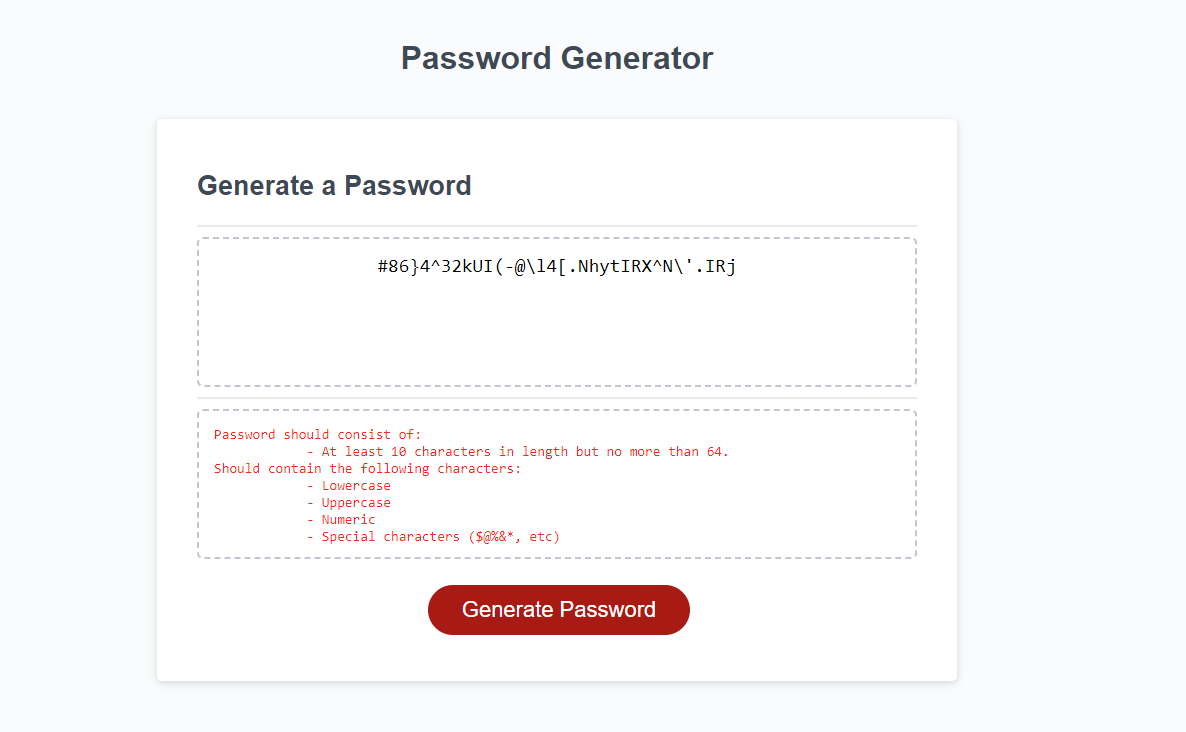
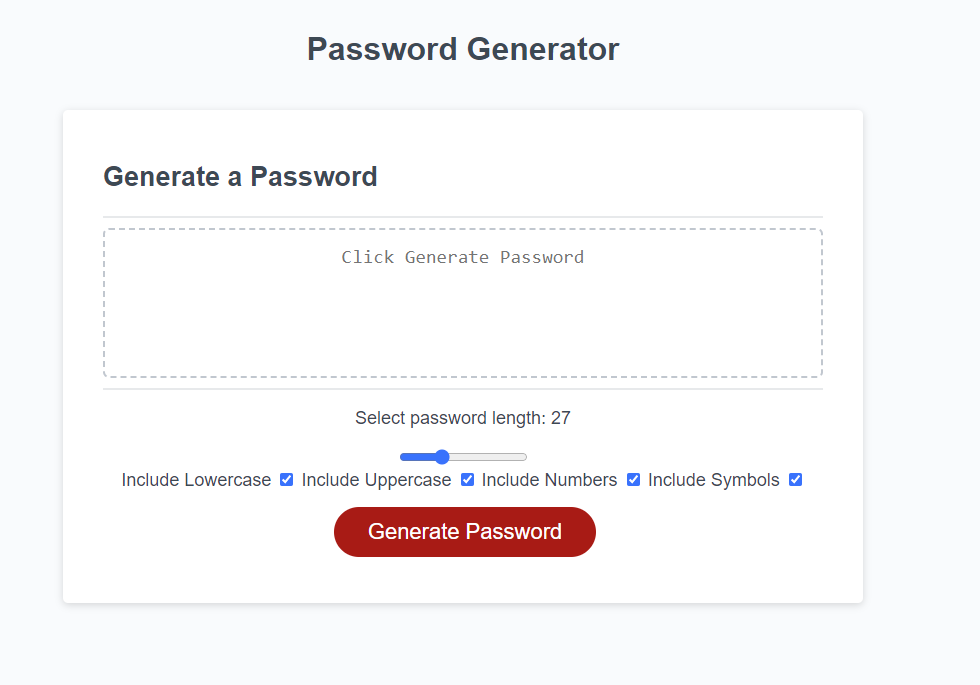
Updating readMe to reflect project changes

diff --git a/README.md b/README.md
@@ -2,39 +2,39 @@
 
 ## Description
 
-This project was intended to make a random password generator that produces a password that meets set parameters. As well as this the application needed to adapt to the users viewport via media queries in css. 
+This project was intended to make a random password generator that produces a password that meets parameters set by the user. As well as this the application needed to adapt to the users viewport via media queries in css. 
 
-This project was intended to help me practice the creation of functions, methods and working between html, css and javascript, - as none of my projects until now have combined all three to such an extent. This password generator tries to produce a password that is secure as possible by making sure the password is made at a random length between 10 and 64 characters, as well as including a random number of upper case, lower case, numeric and special characters. If the generated password does not match the required length and complexity, the browser returns an alert and prompts the user to hit generate button again.
+This project was intended to help me practice the creation of functions, methods and working between html, css and javascript, - as none of my projects until now have combined all three to such an extent. This password generator allows the user to configure the length and contents of the random password generated, with the use of a slider and check boxes. If the user does not select any of the checkboxes, the generator will return an error asking them to select at least one character type.
 
-I enjoyed learning how to hide and show a block using javascript functions and found learning how the .addEventListener method works - which is all new to me.
+I struggled a bit with this project as originally I built the wrong kind of password generator, that didn't allow the user to pick the inputs, so reworking the code and trying to wrap my head around how to calibrate the user input was all very new to me.
 
 ## Installation
 
 Live deployed web application can be viewed via the following link: https://emh93.github.io/Random-Password-Generator/
-Click "Generate Password" to begin generating randomised passwords.
+Select the password length and character requirements and then click "Generate Password" to begin generating randomised passwords.
 
 ## Usage
 
-Deployed application can be accessed by the url above. When opening the web page the user will be presented with the default web page, waiting for the user to begin, as shown below:
+The deployed application can be accessed by the url above. When opening the web page the user will be presented with a pop up alert that explains the rules of the generator to them, as shown below:
 
-![Initial web page asking the user to click the Generate Password button](./images/Screen1.PNG)
+![The alert that explains the usage rules of the generator](./images/Screen1.PNG)
 
-Once the user clicks on the red "Generate Password" button, they will be presented with a list of parameters that the password must meet in order to be effective - the password generated by the randomiser will always create one within these parameters per the javascript code. Clicking the generate button will then present a randomised password for the user in place of the placeholder text. An example password and the prompts visuals are shown below:
+Once the pop up is closed they will encounter the main screen, the placeholder text in the password box instructs them to click the generate password button, and as default the generator is set to the minimum length of 10 and all character types are selected.
 
-![A password meeting the required perameters has been generated, the parameters have also been printed to the screen for the user](./images/Screen2-v2.PNG)
+![The main generator page on it's default setting](./images/Screen2v2.PNG)
 
-In the instance that the password generated by the randomiser does not meet the requirements shown, the user will be shown an alert prompt that will ask them to press Generate Password again, this ensures they are given a password that is sufficently secure. The alert is shown below:
+The user can then select their password length and character requirements and select "Generate Password", the password will then be shown in the password box, as shown below:
 
-![Alert pop up to show the user that the password does not meet the parameters](./images/Screen3-v2.PNG)
+![A password has been generated for the user](./images/Screen3.PNG)
 
-Once the user presses "Confirm" on the alert, the password will show as "undefined", but clicking the "Generate Password" button will produce a new password when clicked. The user is prompted to click again both by the alert and in the prompt box on screen, as shown below:
+If the user doesn't select any character types, they'll be presented with the following on screen error:
 
-![Prompt for the user to ignore all undefined reponses](./images/clickagain.PNG)
+![An error message asking the user to select a character type](./images/ScreenError.PNG)
 
 ## Credits
 
 Starter JS, HTML, CSS files provided by edX front end web development bootcamp.
-Hiding and showing block function used from w3schools.com
+I followed this tutorial for the configuration functionality, which was key to my understanding: https://webdesign.tutsplus.com/tutorials/build-a-configurable-random-password-generator-with-javascript--cms-93262 
 
 ## License
 
